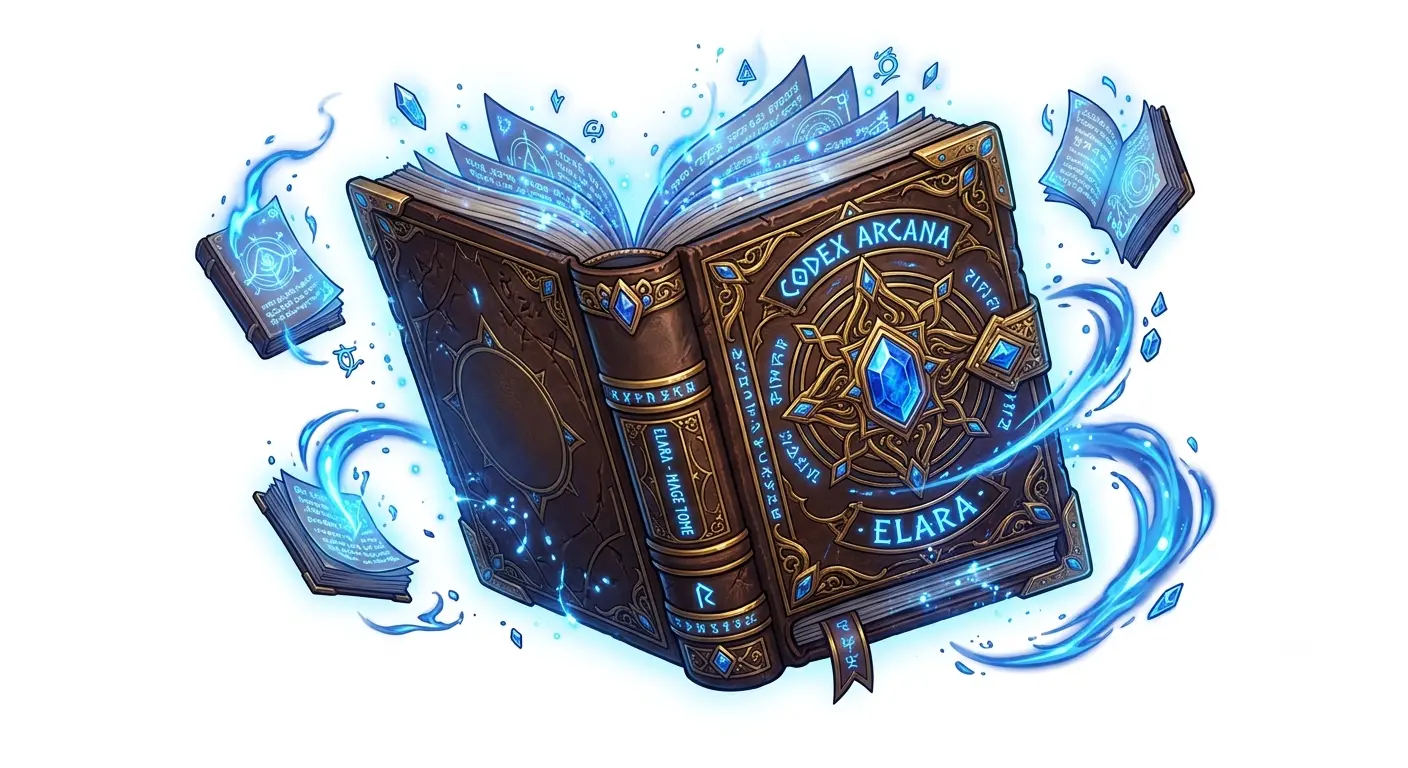
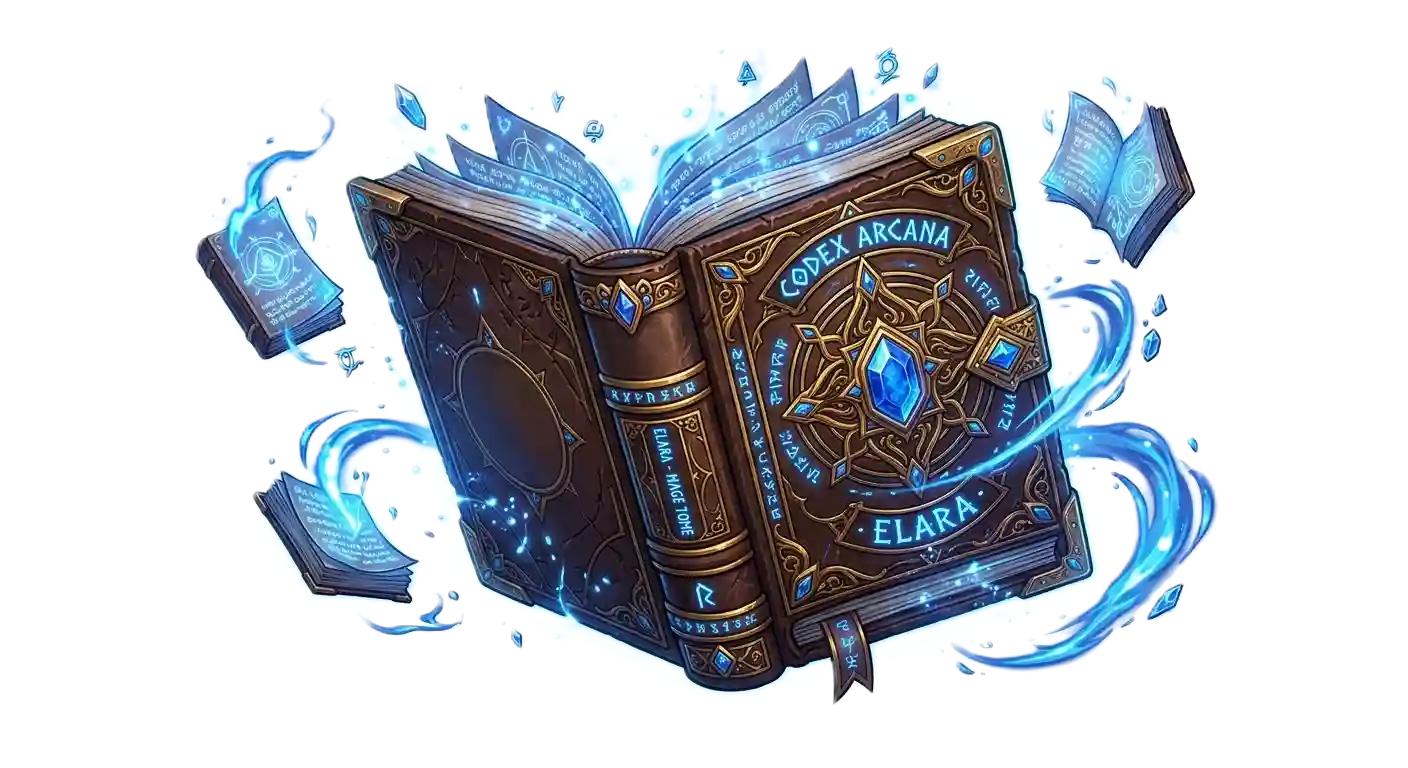
Update tutorial hints and grimoire mentor

diff --git a/game-v2.js b/game-v2.js
@@ -74,6 +74,10 @@
     let _tutorialState = null;  // { pages, idx, onDone, key }
     let _storyState = null;     // { lines, idx, playerName, onDone }
     let _quickHintOpen = false;
+    let _tutorialHintIconTimer = null;
+    let _tutorialHintIconKey = null;
+    let _tutorialHintIconIndex = 0;
+    let _activeWrongHintKey = '';
     let _wrongChosenMap = {};   // { compoundKey or compoundKey|questionIndex: chosenWrongAnswerKey } — per round
     let _codexTab = 'molecules'; // 'molecules' | 'levels' | 'badges' | 'story'
     let _wrongBookTab = 'category'; // 'category' | 'all' | 'box1' | 'box2' | 'box3' | 'mastered'
@@ -150,6 +154,14 @@
         if (action.type === 'SUBMIT_ANSWER' && preCompoundKey) {
             _lastAnswerPlayer = action.player || null;
             const wasCorrect = (action.key === preCorrectKey);
+            if (wasCorrect) {
+                _activeWrongHintKey = '';
+                _stopTutorialHintIcon();
+            } else {
+                _activeWrongHintKey = 'wrong:' + (action.key || preCompoundKey || Date.now());
+                const tutBtn = document.querySelector('[data-action="show-tutorial"]');
+                if (tutBtn) _startTutorialHintIcon(tutBtn, _activeWrongHintKey);
+            }
             if (state.mode === 'practice' && wasCorrect) {
                 if (typeof Save !== 'undefined') {
                     if (Save.recordMoleculeAnsweredV2) Save.recordMoleculeAnsweredV2(preCompoundKey, state.difficulty);
@@ -178,6 +190,8 @@
         }
         if (action.type === 'LOAD_NEXT_QUESTION' || action.type === 'BUZZ') {
             _lastAnswerPlayer = null;
+            _activeWrongHintKey = '';
+            _stopTutorialHintIcon();
         }
 
         // LOAD_NEXT_QUESTION side effects — enrich the freshly-loaded question.
@@ -408,6 +422,7 @@
         if (buzz) buzz.classList.remove('buzz-open', 'buzz-owner-p1', 'buzz-owner-p2');
         const hint = document.getElementById('game-hint-bubble');
         _quickHintOpen = false;
+        _stopTutorialHintIcon();
         if (hint) { hint.classList.remove('visible', 'quick-hint'); hint.textContent = ''; }
         const img = document.getElementById('game-image');
         if (img) {
@@ -446,6 +461,7 @@
             state.dynamic.completeStateReached = false;
         }
         if (state.question) {
+            _activeWrongHintKey = '';
             state.question.lastChosenWrongKey = null;
             if (state.question.eliminatedWrongKeys) state.question.eliminatedWrongKeys.clear();
             if (state.question.failedPlayersThisCycle) state.question.failedPlayersThisCycle.clear();
@@ -501,6 +517,7 @@
         renderTutorialModal();
         renderConfirmModal();
         renderDevBanner();
+        syncHatChars();  // 依皮膚設定同步所有 .hat-char（切換 hat/grimoire 後重繪）
     }
 
     function renderMainMenu() {
@@ -925,15 +942,12 @@
         render();
         return true;
     }
-    // 提示泡泡內容（由「看教學」按鈕切換）。練習模式若本題答錯過，優先顯示該題
-    // 正解類別的「辨識重點＋常見陷阱＋官能基小圖」（教學時機）；否則顯示本關教學
-    // 第 1 頁的一般提示（不洩漏當題答案）。回傳 HTML 字串（動態文字均已跳脫）。
+    // 提示泡泡內容（由「看教學」按鈕切換）。一律顯示當題正解類別的
+    // 「辨識重點＋常見陷阱＋官能基小圖」；查無對應提示才用通用提示。
+    // 回傳 HTML 字串（動態文字均已跳脫）。
     function _quickHintText() {
         const q = state && state.question ? state.question.current : null;
-        const triedWrong = state && state.question && state.question.eliminatedWrongKeys
-            && state.question.eliminatedWrongKeys.size > 0;
-        if (q && triedWrong && state.mode === 'practice'
-            && typeof AnswerBank !== 'undefined' && AnswerBank[q.compoundKey]
+        if (q && typeof AnswerBank !== 'undefined' && AnswerBank[q.compoundKey]
             && typeof WhyHints !== 'undefined' && WhyHints[AnswerBank[q.compoundKey].category]) {
             const wh = WhyHints[AnswerBank[q.compoundKey].category];
             const img = wh.fg ? '<img class="why-hint-img" src="' + _escapeHtml(wh.fg) + '" alt="">' : '';
@@ -941,15 +955,6 @@
             return '<div class="why-hint-row">' + img +
                 '<div class="why-hint-text"><strong>「' + _escapeHtml(wh.zh) + '」怎麼認：</strong>' +
                 _escapeHtml(wh.key) + trap + '</div></div>';
-        }
-        if (state && state.family && state.difficulty) {
-            const pages = _tutorialPagesFor(state.family, state.difficulty);
-            if (pages && pages.length > 0) {
-                const page = pages[0] || {};
-                const title = page.title ? _escapeHtml(String(page.title)) : '';
-                const text = page.text ? _escapeHtml(String(page.text)) : '';
-                return title && text ? ('<strong>' + title + '：</strong>' + text) : (text || title);
-            }
         }
         return _escapeHtml(state && state.mode === 'duel'
             ? '看清楚分子特徵後再搶答；搶答後只有目前搶答方可以作答。'
@@ -966,7 +971,64 @@
     }
     function _toggleQuickHint() {
         _quickHintOpen = !_quickHintOpen;
+        if (_quickHintOpen) {
+            _activeWrongHintKey = '';
+            _stopTutorialHintIcon();
+        }
         _renderQuickHint();
+    }
+
+    function _setTutorialHintIcon(btn) {
+        if (!btn) return;
+        btn.classList.add('hint-symbol');
+        btn.removeAttribute('data-icon');
+        btn.textContent = _tutorialHintIconIndex % 2 === 0 ? '✻' : '✿';
+    }
+    function _startTutorialHintIcon(btn, wrongKey) {
+        if (!btn || !wrongKey) return;
+        if (_tutorialHintIconKey !== wrongKey) {
+            _tutorialHintIconKey = wrongKey;
+            _tutorialHintIconIndex = 0;
+        }
+        _setTutorialHintIcon(btn);
+        if (_tutorialHintIconTimer !== null) return;
+        _tutorialHintIconTimer = setInterval(function () {
+            const latestBtn = document.querySelector('[data-action="show-tutorial"]');
+            if (!latestBtn) {
+                _stopTutorialHintIcon();
+                return;
+            }
+            _tutorialHintIconIndex++;
+            _setTutorialHintIcon(latestBtn);
+        }, 1000);
+    }
+    function _stopTutorialHintIcon() {
+        if (_tutorialHintIconTimer !== null) {
+            clearInterval(_tutorialHintIconTimer);
+            _tutorialHintIconTimer = null;
+        }
+        _tutorialHintIconKey = null;
+        _tutorialHintIconIndex = 0;
+        const tutBtn = document.querySelector('[data-action="show-tutorial"]');
+        if (tutBtn) {
+            tutBtn.classList.remove('hint-symbol');
+            tutBtn.setAttribute('data-icon', 'quill');
+            tutBtn.textContent = '看教學';
+        }
+    }
+    function _currentWrongHintKey() {
+        if (!state || !state.question) return '';
+        if (_activeWrongHintKey) return _activeWrongHintKey;
+        if (state.question.lastChosenWrongKey) return String(state.question.lastChosenWrongKey);
+        const q = state.question.current;
+        if (q && state.wrongInRound && state.wrongInRound.has && state.wrongInRound.has(q.compoundKey)) {
+            return 'compound:' + q.compoundKey;
+        }
+        const eliminated = state.question.eliminatedWrongKeys;
+        if (eliminated && eliminated.size > 0) {
+            return 'eliminated:' + Array.from(eliminated).join('|');
+        }
+        return '';
     }
 
     // ---- Buzz countdown + handoff overlay (rAF loop) --------------------
@@ -1248,6 +1310,12 @@
             const hasTut = tut && (Array.isArray(tut.pages) ? tut.pages.length > 0
                                  : Array.isArray(tut) ? tut.length > 0 : false);
             tutBtn.style.display = hasTut ? '' : 'none';
+
+            // 答錯後週期性切換提示按鈕 icon，提醒學生可以按提示看辨識重點。
+            const wrongKey = _currentWrongHintKey();
+            const shouldCycleHintIcon = hasTut && wrongKey && !_quickHintOpen;
+            if (shouldCycleHintIcon) _startTutorialHintIcon(tutBtn, wrongKey);
+            else _stopTutorialHintIcon();
         }
 
         // Wrong review (Practice only)
@@ -1721,6 +1789,7 @@
         _setChecked('settings-dev-quickwin-enabled', settings.devQuickWin && settings.devQuickWin.enabled);
         _setValue('settings-dev-quickwin-after', settings.devQuickWin && settings.devQuickWin.winAfter);
         _setChecked('settings-dev-quickwin-show-indicator', settings.devQuickWin && settings.devQuickWin.showIndicator);
+        _setChecked('settings-dev-character-hat', settings.characterSkin === 'hat');
         _setChecked('settings-dev-show-fps', settings.devShowFps);
         _setChecked('settings-dev-log-actions', settings.devLogActions);
         _setChecked('settings-dev-use-legacy-sounds', settings.devUseLegacySounds);
@@ -1881,7 +1950,8 @@
         if (!whoEl || !textEl || !_storyState) return;
         const line = _storyState.lines[_storyState.idx];
         if (!line) return;
-        const WHO_LABEL = { hat: '🎩 分類帽', wiz: '🧙 魔法師' };
+        const mentorLabel = _characterSkin() === 'grimoire' ? '📖 分類魔導書' : '🎩 分類帽';
+        const WHO_LABEL = { hat: mentorLabel, wiz: '🧙 魔法師' };
         whoEl.textContent = WHO_LABEL[line.who] || line.who;
         const raw = line.text || '';
         const name = _storyState.playerName || '';
@@ -1942,7 +2012,9 @@
     // Open story player. familyKey → looks up StoryScripts[familyKey].
     // onDone() is called after the last line (or if story is empty).
     function _openStory(familyKey, onDone) {
-        const scripts = (typeof StoryScripts !== 'undefined') ? StoryScripts : {};
+        const scripts = (_characterSkin() === 'grimoire' && typeof StoryScriptsGrimoire !== 'undefined')
+            ? StoryScriptsGrimoire
+            : (typeof StoryScripts !== 'undefined') ? StoryScripts : {};
         const lines = scripts[familyKey];
         if (!lines || lines.length === 0) {
             if (typeof onDone === 'function') onDone();
@@ -2622,6 +2694,9 @@
             ['settings-dev-quickwin-show-indicator', 'checkbox', function (v) {
                 Save.writeSettings({ devQuickWin: { showIndicator: v } });
             }],
+            ['settings-dev-character-hat', 'checkbox', function (v) {
+                Save.writeSettings({ characterSkin: v ? 'hat' : 'grimoire' });
+            }],
             ['settings-dev-show-fps', 'checkbox', function (v) {
                 Save.writeSettings({ devShowFps: v });
             }],
@@ -2782,8 +2857,23 @@
         '<div class="eye left"><div class="pupil"></div></div>' +
         '<div class="eye right"><div class="pupil"></div></div>' +
         '<div class="mouth"></div>';
+    // 'grimoire'（預設，靜態圖）或 'hat'（CSS 五官會做表情）。開發者選項可切換。
+    function _characterSkin() {
+        const s = (typeof Save !== 'undefined' && Save.readSettings) ? Save.readSettings() : null;
+        return (s && s.characterSkin === 'hat') ? 'hat' : 'grimoire';
+    }
     function ensureHatChar(el) {
-        if (el && !el.querySelector('.hat-img')) el.innerHTML = HAT_INNER;
+        if (!el) return;
+        if (_characterSkin() === 'grimoire') {
+            // 魔導書：靜態圖，忽略表情。切換自帽版時（無 .grimoire-img）重繪。
+            if (!el.querySelector('.grimoire-img')) {
+                el.classList.add('is-grimoire');
+                el.innerHTML = '<img class="grimoire-img" src="assets/images/character/magicbook.webp" alt="">';
+            }
+        } else if (!el.querySelector('.hat-img')) {
+            el.classList.remove('is-grimoire');
+            el.innerHTML = HAT_INNER;
+        }
     }
     function setHatExpression(el, expr) {
         if (!el) return;
@@ -2791,8 +2881,13 @@
         el.classList.add(expr && HAT_EXPRS.indexOf(expr) >= 0 ? expr : 'neutral');
     }
     let _hatMouseBound = false;
-    function initHatChars() {
+    // 依目前皮膚設定同步所有 .hat-char 的 DOM（切換 hat/grimoire 後也會正確重繪）。
+    // 只碰 DOM、不綁事件，可安全在每次 render() 結尾呼叫。
+    function syncHatChars() {
         document.querySelectorAll('.hat-char').forEach(ensureHatChar);
+    }
+    function initHatChars() {
+        syncHatChars();
         if (_hatMouseBound) return;
         _hatMouseBound = true;
         document.addEventListener('mousemove', (ev) => {

diff --git a/index.html b/index.html
@@ -10,7 +10,7 @@
     <link rel="preconnect" href="https://fonts.gstatic.com" crossorigin>
     <link rel="stylesheet" href="https://fonts.googleapis.com/css2?family=Cinzel:wght@500;700;900&display=swap">
 
-    <link rel="stylesheet" href="style.css">
+    <link rel="stylesheet" href="style.css?v=hint-symbol-no-before-image-200-20260708">
     <link rel="stylesheet" href="sorting-hat.css">
     <link rel="stylesheet" href="menu.css">
     <!-- Legacy layout.css / menu.css moved to legacy/ — v2 styles in style.css are self-contained. -->
@@ -208,6 +208,7 @@
                 <label class="v2-setting-row"><input type="checkbox" id="settings-dev-quickwin-enabled"> 啟用「答對 N 題即結算」</label>
                 <label class="v2-setting-row">N = <input type="number" id="settings-dev-quickwin-after" min="1" value="2"></label>
                 <label class="v2-setting-row"><input type="checkbox" id="settings-dev-quickwin-show-indicator"> 顯示螢幕底部紅色 banner</label>
+                <label class="v2-setting-row"><input type="checkbox" id="settings-dev-character-hat"> 導師用分類帽（預設分類魔導書）</label>
                 <label class="v2-setting-row"><input type="checkbox" id="settings-dev-show-fps"> 右上角顯示 FPS</label>
                 <label class="v2-setting-row"><input type="checkbox" id="settings-dev-log-actions"> console.log 每個 action</label>
                 <label class="v2-setting-row"><input type="checkbox" id="settings-dev-use-legacy-sounds"> 使用原本合成音效</label>
@@ -295,6 +296,7 @@
 
     <script src="data.js"></script>
     <script src="story.js"></script>
+    <script src="story-grimoire.js"></script>
     <script src="tutorial.js"></script>
     <script src="save.js"></script>
     <script src="mode-rules.js"></script>
@@ -305,6 +307,6 @@
     <script src="input-controller.js"></script>
     <script src="ai-controller.js"></script>
     <!-- Legacy game.js moved to legacy/ — game-v2.js is the live game loop. -->
-    <script src="game-v2.js"></script>
+    <script src="game-v2.js?v=hint-symbol-20260708"></script>
 </body>
 </html>

diff --git a/style.css b/style.css
@@ -1534,17 +1534,30 @@ body.input-locked .v2-buzz button { pointer-events: none; }
 .why-hint-row { display: flex; gap: 12px; align-items: flex-start; }
 .why-hint-img {
     flex: 0 0 auto;
-    width: clamp(48px, 10vw, 72px);
-    height: clamp(48px, 10vw, 72px);
+    width: clamp(96px, 20vw, 144px);
+    height: clamp(96px, 20vw, 144px);
     object-fit: contain;
     background: #f7f1e1;
     border: 1px solid var(--hp-wood-dark);
     border-radius: 6px;
-    padding: 4px;
+    padding: 8px;
 }
 .why-hint-text { text-align: left; }
 .why-hint-text strong { color: var(--hp-gold); }
 .why-hint-trap { display: block; margin-top: 5px; color: #ffcf7a; font-size: .9em; }
+
+/* 答錯後提示按鈕改用週期性符號提醒，不使用閃爍動畫。 */
+.v2-game-tutorial-btn.hint-symbol {
+    color: var(--hp-gold);
+    font-family: "Cinzel", "Georgia", serif;
+    font-size: 24px;
+    font-weight: 900;
+    line-height: 1;
+}
+.v2-game-tutorial-btn.hint-symbol::before {
+    content: none !important;
+    display: none !important;
+}
 
 #screen-game #game-hint-bubble.quick-hint.visible {
     position: absolute;

diff --git a/save.js b/save.js
@@ -106,6 +106,8 @@ const Save = (function () {
             devShowFps: false,
             devLogActions: false,
             devUseLegacySounds: false,
+            // 導師角色皮膚：'grimoire' = 分類魔導書（預設，版權安全）；'hat' = 分類帽
+            characterSkin: 'grimoire',
             // 對決對手模式，全域 sticky：玩家通常設定一次就不變。
             // 'human' = PvP；'aiEasy'/'aiMedium'/'aiHard' = PvE 各難度。
             duelOpponent: 'aiMedium',

diff --git a/sorting-hat.css b/sorting-hat.css
@@ -24,6 +24,13 @@
     position: absolute; inset: 0;
     background: url('assets/images/character/Sorting_Hat.webp') no-repeat center / contain;
 }
+/* 分類魔導書皮膚：靜態圖，取代 CSS 五官 */
+.hat-char.is-grimoire .grimoire-img {
+    position: absolute; inset: 0;
+    width: 100%; height: 100%;
+    object-fit: contain;
+    filter: drop-shadow(0 3px 6px rgba(0,0,0,.5));
+}
 .hat-char .eye {
     position: absolute;
     top: var(--eye-y);
